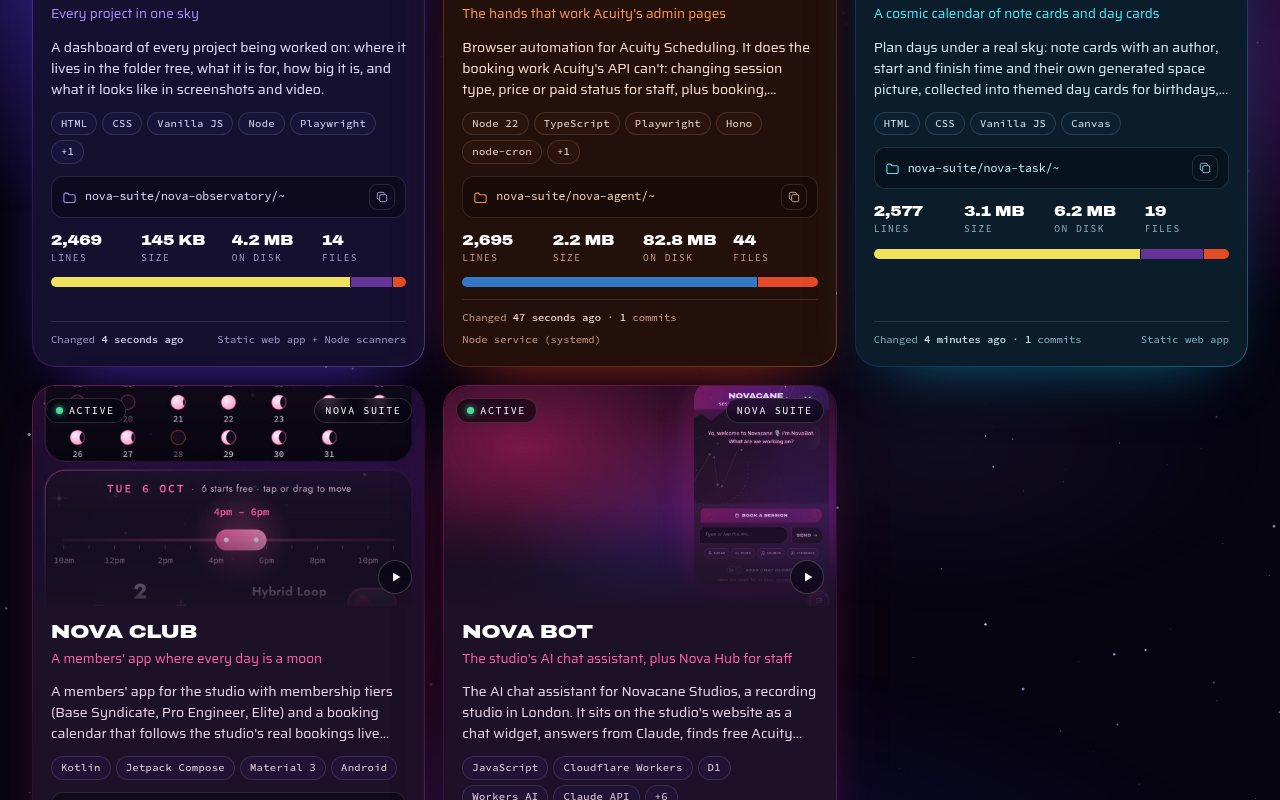
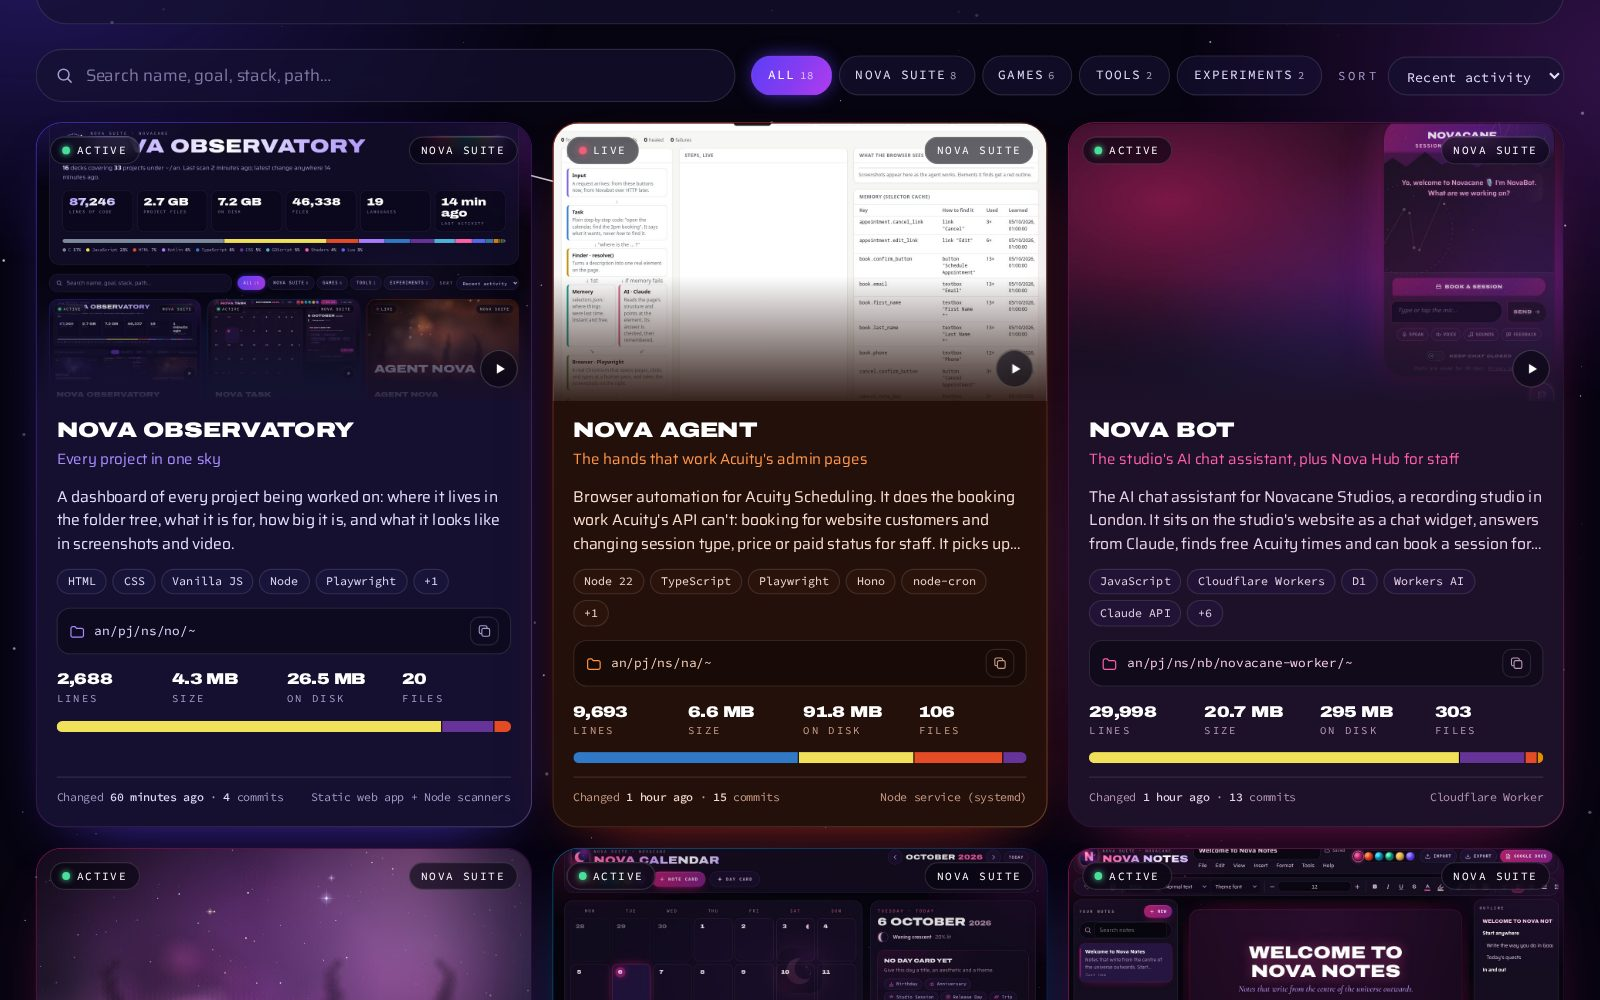
README: new screenshots, a tour GIF, the Sound switch and Nova Agent
Fresh overview, decks, project detail, folder tree and star map
screenshots from the current scan (now with Nova Index), a GIF that
scrolls the overview and opens a project, and notes on the Sound
switch, the All links pill and Nova Agent serving it at /observatory/.

diff --git a/README.md b/README.md
@@ -1,7 +1,5 @@
 <div align="center">
 
-<img src="docs/media/overview.jpg" alt="Nova Observatory: totals for lines of code, size, files and languages above a grid of project decks" width="820">
-
 # Nova Observatory
 
 **Every project in one sky: a dashboard that measures your work on disk and shows it in screenshots and video.**
@@ -12,6 +10,10 @@
 [![ffmpeg](https://img.shields.io/badge/ffmpeg-video-007808?logo=ffmpeg&logoColor=white)](#capture)
 [![Nova suite](https://img.shields.io/badge/part%20of-nova--suite-B026FF)](https://github.com/tuniveza/nova-suite)
 
+<img src="docs/media/overview.jpg" alt="Nova Observatory's overview: totals for lines of code, size, files and languages, a language bar, the All links and Sound switches, and the first project decks" width="900">
+
+<sub>Always on inside Nova Agent at <code>/observatory/</code> · or open <code>index.html</code> anywhere</sub>
+
 </div>
 
 ---
@@ -21,7 +23,23 @@ disk rather than by hand: one script measures every project, another opens each 
 Chromium and records screenshots and a short demo video, and a static page shows the lot as
 project decks and a star map.
 
-The screenshots in this README come from a catalogue of just the Nova suite.
+The screenshots here come from the studio's own catalogue: the Nova suite, plus games, tools
+and experiments. They show project names, sizes and folder trees, and nothing personal.
+
+## What's new
+
+| | |
+|---|---|
+| 🔔 **Sound switch** | Soft cosmic sound effects on every press. The **Sound on / Sound off** switch beside All links turns them off and on. |
+| 🔒 **All links** | A pill in the header that opens the password-protected page with every Nova suite address, live and testing. |
+| ✦ **Served by Nova Agent** | Nova Agent serves it at `/observatory/`, so it's always on while Nova Agent is. |
+| 🧠 **Nova Index** | The suite's shared memory now has its own deck. Nova Portal may join it later. |
+
+## See it in action
+
+<p align="center"><img src="docs/media/demo.gif" width="720" alt="Scrolling down the overview through the project decks, then opening Nova Index's detail view"></p>
+
+<p align="center"><sub>Scroll the decks, then open one for the full story.</sub></p>
 
 ## What it does
 
@@ -31,34 +49,47 @@ Each project gets a **deck** showing:
 - its goal and vision, and what it does
 - its size on disk, project files, lines of code and languages
 - git state and last activity
-- screenshots and a demo video
+- screenshots and a demo video (or a generated cosmic cover)
 
 And across all of them:
 
-- **Totals**: lines of code, project files, size on disk, files, languages and last activity,
-  with a language bar.
-- **Search, filter and sort**: by name, goal, stack or path; by category; by recent activity
-  and more.
-- **A detailed view** for each project, with its video, screenshots, folder tree, languages and
-  facts.
-- **A star map** that draws the whole folder structure, with every project as a star.
-- **Six colour themes**, shared with [Nova Calendar](https://github.com/tuniveza/nova-calendar).
+| | |
+|---|---|
+| **Totals** | Lines of code, project files, size on disk, files, languages and last activity, with a language bar |
+| **Search, filter and sort** | By name, goal, stack or path; by category; by recent activity and more |
+| **A detailed view** | Each project's video, screenshots, folder tree, languages and facts |
+| **A star map** | The whole folder structure, with every project as a star sized by its lines of code |
+| **Six colour themes** | Shared with [Nova Calendar](https://github.com/tuniveza/nova-calendar) and [Nova Notes](https://github.com/tuniveza/nova-notes) |
+| **Sound effects** | The shared Nova suite sounds, with a switch in the header |
 
 ## Screenshots
 
-<p align="center">
-  <img src="docs/media/demo.gif" alt="Animated tour: the totals, scrolling through project decks, opening Nova Bot's detail view, and the star map" width="720">
-</p>
-
 <table>
   <tr>
-    <td width="50%"><img src="docs/media/decks.jpg" alt="Project decks with video posters, stats and language bars" width="100%"><br><sub>Project decks.</sub></td>
-    <td width="50%"><img src="docs/media/project-detail.jpg" alt="Nova Calendar's detail view with its video, goal, vision and features" width="100%"><br><sub>A project up close.</sub></td>
+    <td width="50%"><img src="docs/media/decks.jpg" alt="Project decks for Nova Observatory, Nova Agent and Nova Bot, with screenshots, stats and language bars" width="100%"><br><sub><b>Project decks.</b></sub></td>
+    <td width="50%"><img src="docs/media/project-detail.jpg" alt="Nova Calendar's detail view: its demo video, screenshots, folder tree, goal, vision and features" width="100%"><br><sub><b>A project up close.</b></sub></td>
   </tr>
   <tr>
-    <td colspan="2" align="center"><img src="docs/media/folder-tree.jpg" alt="The folder tree, languages and facts for a project" width="70%"><br><sub>Folder tree, languages and facts.</sub></td>
+    <td width="50%"><img src="docs/media/star-map.jpg" alt="The star map: every project as a star on the folder tree it grows from" width="100%"><br><sub><b>The star map.</b> Each star sits on its folder; bigger stars have more code.</sub></td>
+    <td width="50%"><img src="docs/media/nova-index.jpg" alt="The Nova Index deck beside Nova Calendar and Nova Notes" width="100%"><br><sub><b>Nova Index</b>, the newest deck in the Nova suite row.</sub></td>
+  </tr>
+  <tr>
+    <td colspan="2" align="center"><img src="docs/media/folder-tree.jpg" alt="Nova Calendar's folder tree, languages and facts: location, size, lines of code, last change and git" width="70%"><br><sub><b>Folder tree, languages and facts.</b></sub></td>
   </tr>
 </table>
+
+## Inside Nova Agent
+
+[Nova Agent](https://github.com/tuniveza/nova-agent) serves this folder at **`/observatory/`**
+(for example `http://localhost:4545/observatory/`) whenever it's running, so the Observatory is
+always on there with the latest scan. Nova Agent looks for it next to itself, in `../no`.
+
+## Sound effects
+
+Every press makes a soft cosmic sound, made live with the Web Audio API (no sound files) and kept
+quiet. The **Sound on / Sound off** switch beside **🔒 All links** turns them off and on, plays a
+little chime when it does, and is remembered on each device. The same `js/sfx.js` makes the
+sounds in Nova Notes and Nova Calendar.
 
 ## How it works
 
@@ -73,6 +104,7 @@ flowchart LR
     SCAN --> DATA[data/projects.js<br/>data/projects.json]
     DATA --> PAGE[index.html<br/>js/observatory.js]
     MEDIA --> PAGE
+    PAGE -.->|served at /observatory/| AGENT[Nova Agent]
 ```
 
 | File | Job |
@@ -82,6 +114,7 @@ flowchart LR
 | `capture.mjs` | Drives headless Chromium (Playwright) and ffmpeg. Writes into `media/<id>/`. |
 | `index.html`, `css/`, `js/observatory.js` | The page. |
 | `js/themes.js`, `js/cosmos.js`, `js/backdrop.js` | Shared with Nova Calendar: the colour themes, the generative space covers and the star backdrop. |
+| `js/sfx.js` | The Nova suite sound effects, shared with Nova Notes and Nova Calendar. |
 
 **What counts as what in a scan:**
 
@@ -96,12 +129,11 @@ flowchart LR
 
 **Capture modes** (`capture.mode` in the catalogue):
 
-- `page` opens the project in Chromium and plays a short scripted demo, recording the screen.
-  The project can be opened as a file, from a local static server (`serve`, with optional
-  `mounts`), from the project's own Vite (`vite: true`) or from a `url`. The demo scripts are in
-  `capture.mjs` under `SCRIPTS`.
-- `images` turns pictures already in the project into a Ken Burns slideshow video.
-- `none` shows a generated cosmic cover instead.
+| Mode | What it does |
+|---|---|
+| `page` | Opens the project in Chromium and plays a short scripted demo, recording the screen. The project can be opened as a file, from a local static server (`serve`, with optional `mounts`), from the project's own Vite (`vite: true`) or from a `url`. The demo scripts are in `capture.mjs` under `SCRIPTS`. |
+| `images` | Turns pictures already in the project into a Ken Burns slideshow video. |
+| `none` | Shows a generated cosmic cover instead. |
 
 **Safety:** during capture, every request that leaves the machine is blocked, except Google
 Fonts, and every non-GET request is blocked too. A demo can type into a chat widget, but nothing
@@ -169,8 +201,9 @@ which is the quickest health check.
 ```
 index.html                    the page
 css/observatory.css           the styling
-js/observatory.js             decks, detail view, star map, search, filter and sort
+js/observatory.js             decks, detail view, star map, search, filter, sort and the Sound switch
 js/themes.js, cosmos.js, backdrop.js   shared with Nova Calendar
+js/sfx.js                     the Nova suite sound effects
 assets/sigil.svg              the Nova sigil
 scan.mjs                      measures every project
 capture.mjs                   screenshots and videos (Playwright + ffmpeg)
@@ -185,12 +218,13 @@ docs/media/                   README images
 |---|---|
 | [nova-suite](https://github.com/tuniveza/nova-suite) | The Nova suite: an overview of every project |
 | [nova-bot](https://github.com/tuniveza/nova-bot) | The website chat assistant, booking card and Nova Hub |
-| [nova-agent](https://github.com/tuniveza/nova-agent) | Browser helper that does jobs in Acuity's admin pages |
+| [nova-agent](https://github.com/tuniveza/nova-agent) | The studio computer's helper; serves Nova Observatory at `/observatory/` |
 | [nova-club](https://github.com/tuniveza/nova-club) | Members' Android app that shows the studio's busy times |
 | [nova-calendar](https://github.com/tuniveza/nova-calendar) | A cosmic calendar of note cards and day cards |
-| [nova-notes](https://github.com/tuniveza/nova-notes) | Nova Notes (in progress) |
+| [nova-notes](https://github.com/tuniveza/nova-notes) | A note editor that writes from the centre outwards |
 | **[nova-observatory](https://github.com/tuniveza/nova-observatory)** | This repo: a dashboard of every project, with screenshots and video |
+| [nova-index](https://github.com/tuniveza/nova-index) | The suite's shared memory |
 
-## Licence
+---
 
-All rights reserved — Novacane Studios.
+<p align="center"><sub>Made for <b>Novacane Studios</b> · All rights reserved</sub></p>
